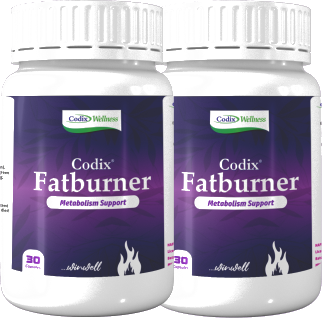
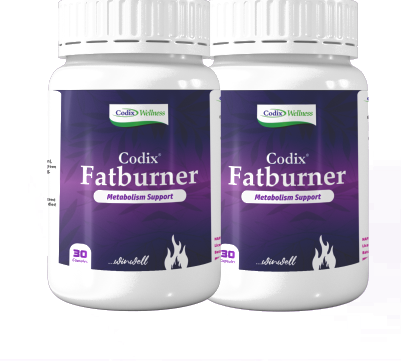
Fix Bento Grid product cutouts to be uncropped, full packaging matching Figma

diff --git a/index.html b/index.html
@@ -824,7 +824,7 @@
           </button>
         </div>
       </div>
-    </    <!-- ======================================================== -->
+    <!-- ======================================================== -->
     <!-- 5. PROMO BENTO GRID                                     -->
     <!-- ======================================================== -->
     <section id="about" class="pt-8 lg:pt-10" aria-label="Promotional Highlights">
@@ -866,7 +866,7 @@
                   <p class="mt-1 text-xs text-codix-navy/85 font-medium">Support Joint Health</p>
                 </div>
                 <img src="images/bento-flexicod.png" alt="Flexicod Joint Health product packaging"
-                  class="absolute bottom-0 right-0 max-h-[175px] sm:max-h-[195px] object-contain drop-shadow-md group-hover:scale-105 transition-transform duration-300 pointer-events-none"
+                  class="absolute bottom-2 right-2 max-h-[175px] sm:max-h-[190px] object-contain drop-shadow-md group-hover:scale-105 transition-transform duration-300 pointer-events-none"
                   loading="lazy">
               </article>
             </div>
@@ -877,7 +877,7 @@
               <article
                 class="bento-card relative overflow-hidden group flex flex-col justify-between p-6 sm:p-7 shadow-card hover:shadow-bento hover:-translate-y-1 transition duration-300 flex-[347] min-w-0 rounded-[12px]"
                 style="min-height: 303px; background: #BDEED5 url('images/bento-fishoil-bg.jpg') no-repeat center center; background-size: cover;">
-                <div class="relative z-10 text-left max-w-[60%]">
+                <div class="relative z-10 text-left max-w-[55%]">
                   <h2 class="text-xl sm:text-2xl font-bold text-codix-navy leading-tight tracking-tight">
                     Your<br>
                     Gummie<br>
@@ -890,7 +890,7 @@
                   </a>
                 </div>
                 <img src="images/bento-fishoil.png" alt="Your Gummie Fish Oil bottle"
-                  class="absolute bottom-0 right-1 sm:right-2 h-[200px] sm:h-[225px] max-w-[55%] object-contain object-bottom drop-shadow-md group-hover:scale-105 transition-transform duration-300 pointer-events-none"
+                  class="absolute bottom-2.5 right-2 sm:right-3 h-[205px] sm:h-[235px] max-w-[52%] object-contain drop-shadow-md group-hover:scale-105 transition-transform duration-300 pointer-events-none"
                   loading="lazy">
               </article>
 
@@ -898,7 +898,7 @@
               <article
                 class="bento-card relative overflow-hidden group flex flex-col justify-between p-6 sm:p-7 shadow-card hover:shadow-bento hover:-translate-y-1 transition duration-300 flex-[496] min-w-0 rounded-[12px]"
                 style="min-height: 303px; background: #EDF4F8 url('images/bento-vitamincd-bg.jpg') no-repeat center center; background-size: cover;">
-                <div class="relative z-10 text-left max-w-[55%]">
+                <div class="relative z-10 text-left max-w-[52%]">
                   <span
                     class="inline-block bg-codix-orange text-white text-[10px] font-extrabold px-3 py-1 rounded-full uppercase tracking-wider mb-2.5 shadow-xs">Big
                     Sale 65% OFF</span>
@@ -907,7 +907,7 @@
                   <p class="text-sm sm:text-base font-bold text-codix-purple tracking-tight mt-0.5" style="color: #211C68;">Vitamin D</p>
                 </div>
                 <img src="images/bento-vitamincd.png" alt="Codix Vitamin C+D Effervescent tubes"
-                  class="absolute bottom-0 right-2 sm:right-4 h-[210px] sm:h-[235px] max-w-[48%] object-contain object-bottom drop-shadow-md group-hover:scale-105 transition-transform duration-300 pointer-events-none"
+                  class="absolute bottom-2 right-2 sm:right-4 h-[215px] sm:h-[245px] max-w-[48%] object-contain drop-shadow-md group-hover:scale-105 transition-transform duration-300 pointer-events-none"
                   loading="lazy">
               </article>
             </div>
@@ -929,9 +929,9 @@
                 Buy now <i class="fa-solid fa-chevron-right text-[10px]" aria-hidden="true"></i>
               </a>
             </div>
-            <div class="absolute bottom-0 left-0 right-0 flex justify-center items-end px-2 pb-0 pointer-events-none">
+            <div class="absolute bottom-2 left-0 right-0 flex justify-center items-end px-2 pb-0 pointer-events-none">
               <img src="images/bento-fatburner.png" alt="Codix Fatburner Twin Pack"
-                class="w-full max-w-[370px] max-h-[300px] sm:max-h-[325px] object-contain object-bottom drop-shadow-lg group-hover:scale-105 transition-transform duration-300"
+                class="w-full max-w-[370px] max-h-[300px] sm:max-h-[325px] object-contain drop-shadow-lg group-hover:scale-105 transition-transform duration-300"
                 loading="lazy">
             </div>
           </article>
